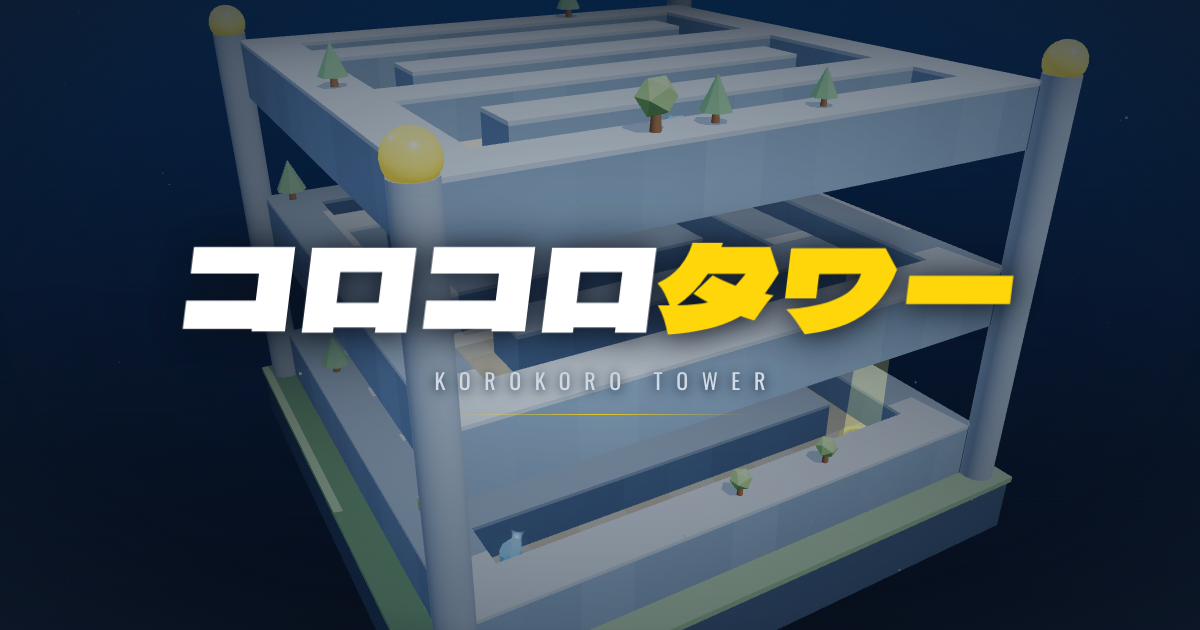
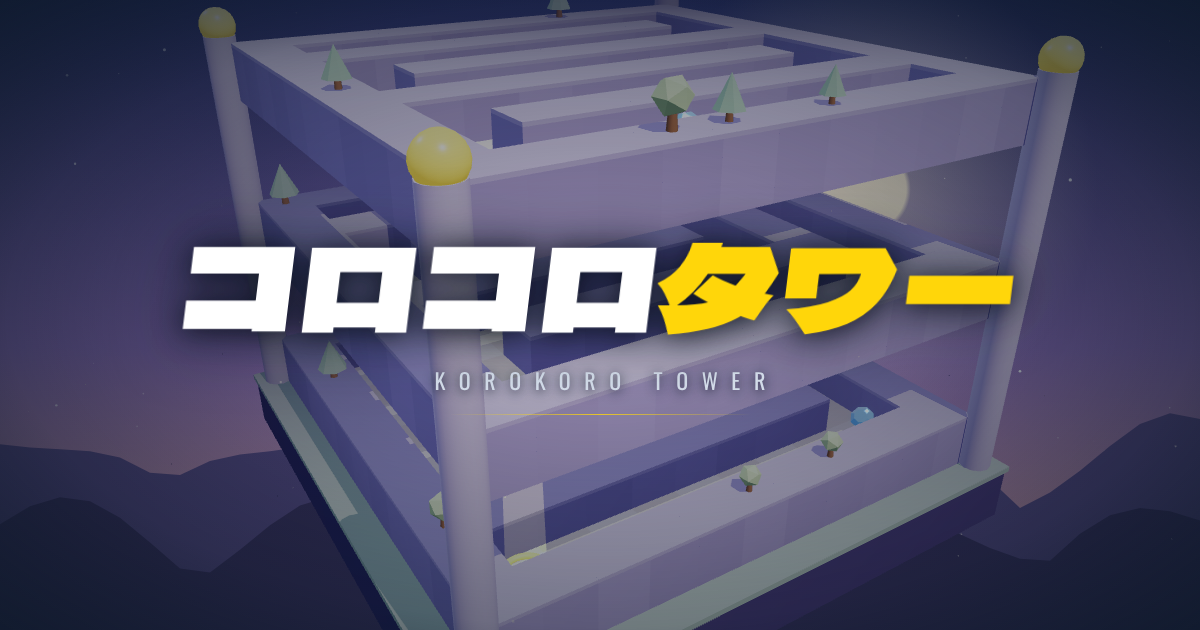
コロコロタワー：ステージごとの幻想的な背景とタワー配色、ポーズとクリスタル表示の左右入れ替え
Claude-Session: https://claude.ai/code/session_01XJ9ANyeUE1xpoHz6BcLguz

diff --git a/public/apps/korokoro-tower/index.html b/public/apps/korokoro-tower/index.html
@@ -18,6 +18,7 @@
 *{box-sizing:border-box;margin:0;padding:0;-webkit-tap-highlight-color:transparent}
 html,body{height:100%;background:var(--navy);color:#fff;overflow:hidden;font-family:"Zen Kaku Gothic New","Hiragino Sans","Noto Sans JP","PingFang SC","Apple SD Gothic Neo",system-ui,sans-serif;-webkit-user-select:none;user-select:none;overscroll-behavior:none;-webkit-text-size-adjust:100%}
 button{font-family:inherit;cursor:pointer;-webkit-appearance:none;appearance:none}
+#bg{position:fixed;inset:0;width:100%;height:100%;display:block;pointer-events:none}
 #gl{position:fixed;inset:0;width:100%;height:100%;display:block;touch-action:none}
 .hidden{display:none!important}
 .scr{position:fixed;inset:0;display:none;flex-direction:column;align-items:center;justify-content:center;padding:calc(env(safe-area-inset-top) + 16px) 18px calc(env(safe-area-inset-bottom) + 16px);touch-action:none}
@@ -65,18 +66,19 @@ button{font-family:inherit;cursor:pointer;-webkit-appearance:none;appearance:non
 /* hud */
 #hud{position:fixed;inset:0;pointer-events:none;touch-action:none}
 #hud .pe{pointer-events:auto}
-#btnPause{position:absolute;left:14px;top:calc(env(safe-area-inset-top) + 12px);width:44px;height:44px;border:1px solid var(--line);background:rgba(14,26,43,.55);border-radius:2px;display:flex;align-items:center;justify-content:center;gap:5px;backdrop-filter:blur(8px);-webkit-backdrop-filter:blur(8px)}
+#btnPause{position:absolute;right:14px;top:calc(env(safe-area-inset-top) + 12px);width:44px;height:44px;border:1px solid var(--line);background:rgba(14,26,43,.55);border-radius:2px;display:flex;align-items:center;justify-content:center;gap:5px;backdrop-filter:blur(8px);-webkit-backdrop-filter:blur(8px)}
 #btnPause i{display:block;width:4px;height:15px;background:#fff}
 .hudCenter{position:absolute;left:0;right:0;top:calc(env(safe-area-inset-top) + 10px);text-align:center;text-shadow:0 2px 12px rgba(14,26,43,.9)}
 .hudStage{font-family:Oswald;font-size:11px;letter-spacing:.42em;padding-left:.42em;color:var(--y)}
 #hudTimer{font-family:"Dela Gothic One";font-size:38px;line-height:1.15;letter-spacing:.02em;font-variant-numeric:tabular-nums}
 #hudTimer.warn{color:var(--y);animation:pulse .5s ease-in-out infinite alternate}
 @keyframes pulse{from{transform:scale(1)}to{transform:scale(1.08)}}
-.hudRight{position:absolute;right:14px;top:calc(env(safe-area-inset-top) + 14px);display:flex;flex-direction:column;align-items:flex-end;gap:8px}
+.hudRight{position:absolute;left:14px;top:calc(env(safe-area-inset-top) + 14px);display:flex;flex-direction:column;align-items:flex-start;gap:8px}
 .hudPill{display:flex;align-items:center;gap:7px;height:30px;padding:0 12px;background:rgba(14,26,43,.6);border:1px solid var(--line);border-radius:2px;font-family:Oswald;font-size:14px;letter-spacing:.1em;backdrop-filter:blur(8px);-webkit-backdrop-filter:blur(8px)}
 .hudPill svg{width:13px;height:13px}
 #floorBar{position:absolute;right:16px;top:calc(env(safe-area-inset-top) + 100px);display:flex;flex-direction:column;gap:5px;align-items:flex-end}
-.fl{display:flex;align-items:center;gap:8px;font-family:Oswald;font-size:12px;letter-spacing:.12em;color:rgba(214,223,236,.6);text-shadow:0 1px 6px #0e1a2b}
+.fl{display:flex;align-items:center;gap:8px;font-family:Oswald;font-size:12px;letter-spacing:.12em;color:rgba(230,236,245,.8);text-shadow:0 0 6px rgba(9,17,29,.9),0 1px 2px rgba(9,17,29,.9)}
+.fl i{box-shadow:0 0 6px rgba(9,17,29,.6)}
 .fl i{display:block;width:26px;height:4px;background:rgba(214,223,236,.25)}
 .fl.cur{color:var(--y)}.fl.cur i{background:var(--y);width:38px}
 .fl.past{color:rgba(214,223,236,.25)}.fl.past i{background:rgba(214,223,236,.12)}
@@ -162,6 +164,7 @@ input[type=range]::-moz-range-thumb{width:22px;height:22px;border-radius:50%;bac
 </style>
 </head>
 <body>
+<canvas id="bg"></canvas>
 <canvas id="gl"></canvas>
 <div id="loading">LOADING</div>
 
@@ -531,14 +534,14 @@ window.addEventListener('keyup',e=>{if(KEYMAP[e.code])input.keys[KEYMAP[e.code]]
 
 /* ---------------- three setup ---------------- */
 const FH=3.4,R=0.28,G=19;
-const renderer=new THREE.WebGLRenderer({canvas:gl,antialias:true,powerPreference:'high-performance'});
+const renderer=new THREE.WebGLRenderer({canvas:gl,antialias:true,alpha:true,powerPreference:'high-performance'});renderer.setClearColor(0x000000,0);
 renderer.setPixelRatio(Math.min(window.devicePixelRatio||1,3));
 renderer.outputEncoding=THREE.sRGBEncoding;renderer.toneMapping=THREE.ACESFilmicToneMapping;renderer.toneMappingExposure=0.95;
 renderer.shadowMap.enabled=true;renderer.shadowMap.type=THREE.PCFSoftShadowMap;
 const scene=new THREE.Scene();
 const camera=new THREE.PerspectiveCamera(38,1,0.1,200);
 // background gradient
-(function(){const c=document.createElement('canvas');c.width=4;c.height=256;const x=c.getContext('2d');const g=x.createLinearGradient(0,0,0,256);g.addColorStop(0,'#1d3b60');g.addColorStop(0.55,'#13263f');g.addColorStop(1,'#0a1422');x.fillStyle=g;x.fillRect(0,0,4,256);const tx=new THREE.CanvasTexture(c);tx.encoding=THREE.sRGBEncoding;scene.background=tx;})();
+(function(){const c=document.createElement('canvas');c.width=4;c.height=256;const x=c.getContext('2d');const g=x.createLinearGradient(0,0,0,256);g.addColorStop(0,'#1d3b60');g.addColorStop(0.55,'#13263f');g.addColorStop(1,'#0a1422');x.fillStyle=g;x.fillRect(0,0,4,256);const tx=new THREE.CanvasTexture(c);tx.encoding=THREE.sRGBEncoding;})();
 scene.fog=new THREE.Fog(new THREE.Color(0x0e1a2b).convertSRGBToLinear(),16,46);
 // env map
 (function(){const pm=new THREE.PMREMGenerator(renderer);const es=new THREE.Scene();const geo=new THREE.SphereGeometry(10,32,16);
@@ -605,6 +608,44 @@ ball.castShadow=true;root.add(ball);
 const ballGlow=new THREE.PointLight(0xffd60a,0,2.2);ball.add(ballGlow);
 
 /* palette */
+/* ---------------- themes ---------------- */
+const THEMES=[
+ {sky:['#2b2f6b','#8e6fb8','#f2b3a6'],glow:['#fff1d6',0.72,0.3,90],stars:60,sil:'mountains',silC:['#5a4b86','#3a2f5c'],fog:'#5d4f86',dust:0xffe6c8,wall:0x8d88c0,cap:0xc9c4ec,pillar:0xb9b2e0,sandA:0xf1e7d6,sandB:0xe4d7c2,base:0x3d3566,grass:0x8fb59a,leaf:[0x7fb38f,0xa6c98a],sun:0xffe2cc,hemi:0xe0d8ff},
+ {sky:['#0b2a31','#2c6b69','#a6d9c4'],glow:['#efffef',0.25,0.28,70],stars:30,sil:'pines',silC:['#2f6a64','#123a3c'],fog:'#2c5f5d',dust:0xd8ffe6,wall:0x5f9a8e,cap:0xaad8ca,pillar:0x9ccfc2,sandA:0xeee7d2,sandB:0xe0d6bb,base:0x1f4547,grass:0x7fb08a,leaf:[0x4f8f6a,0x79b07a],sun:0xfff4dc,hemi:0xd6fff0},
+ {sky:['#34184a','#c25a73','#ffc684'],glow:['#fff3b0',0.5,0.62,120],stars:0,sil:'city',silC:['#7a3a63','#2c1638'],fog:'#7c4363',dust:0xffe0a0,wall:0x9a7aa6,cap:0xdcc6e4,pillar:0xcab3d6,sandA:0xf5ead7,sandB:0xe9dbc3,base:0x3a2140,grass:0xa3a37a,leaf:[0x8a9a62,0xb0b070],sun:0xffd9a8,hemi:0xffe0ea},
+ {sky:['#040f22','#0c3150','#16606c'],glow:['#d8f4ff',0.78,0.18,50],stars:140,aurora:true,sil:'mountains',silC:['#1d4a63','#081d30'],fog:'#103a52',dust:0xc8f4ff,wall:0x8ab0cc,cap:0xdbeaf6,pillar:0xbcd6ea,sandA:0xeceae4,sandB:0xdedbd2,base:0x162c44,grass:0xbfd6e0,leaf:[0xd8eef6,0xb6d8e6],sun:0xe6f2ff,hemi:0xd8ecff},
+ {sky:['#ffd2e6','#c8b6ff','#9fd6ff'],glow:['#ffffff',0.3,0.24,110],stars:0,sil:'islands',silC:['#b49ce6','#8d77cc'],fog:'#b9a8e8',dust:0xffffff,wall:0x86c9b8,cap:0xd2f1e7,pillar:0xbfe8dc,sandA:0xfff4e6,sandB:0xf6e6d2,base:0x8a74c2,grass:0x9fe0b8,leaf:[0x8fd6a8,0xffb8d8],sun:0xfff6f0,hemi:0xfff0ff},
+ {sky:['#1d1430','#77486a','#e8a66a'],glow:['#ffe2a0',0.7,0.6,100],stars:20,sil:'dunes',silC:['#8a5468','#3a2234'],fog:'#6e4562',dust:0xffd6a0,wall:0xb39a7a,cap:0xe3d2b8,pillar:0xd2bf9f,sandA:0xf6ecd6,sandB:0xeadcbf,base:0x3e2a36,grass:0xc9b27a,leaf:[0x9aa060,0xc0b070],sun:0xffd8a8,hemi:0xffe6d0},
+ {sky:['#0c0d24','#28265a','#5a4a8a'],glow:['#ffd27a',0.5,0.3,80],stars:90,sil:'spires',silC:['#3f3a78','#1a1840'],fog:'#2e2b62',dust:0xffd98a,wall:0x6f6aa8,cap:0xbdb6e4,pillar:0xd8b867,sandA:0xefe8dc,sandB:0xe2d9c8,base:0x1e1c44,grass:0x7a8a9a,leaf:[0x6f9a8a,0x8fae8a],sun:0xffe2b0,hemi:0xe6e0ff},
+ {sky:['#05061a','#16124a','#45176a'],glow:['#ff5fd2',0.5,0.66,140],stars:70,sil:'grid',silC:['#2a1d6a','#0c0a2a'],fog:'#24174f',dust:0x9ff0ff,wall:0x56679a,cap:0x9aaee0,pillar:0x7f8fd0,sandA:0xe8eaf0,sandB:0xd9dce6,base:0x141038,grass:0x5d6aa0,leaf:[0x3fd8e8,0xc070ff],sun:0xe8e8ff,hemi:0xe0e8ff},
+ {sky:['#7fc2ff','#cbe7ff','#fff2dc'],glow:['#fffbe8',0.72,0.32,120],stars:0,sil:'clouds',silC:['#ffffff','#e6f1ff'],fog:'#cfe4f7',dust:0xffffff,wall:0x7ea3c6,cap:0xd8e7f5,pillar:0xbcd2e8,sandA:0xf4ecd9,sandB:0xe8dcc2,base:0x6f8fb3,grass:0x9fcf9a,leaf:[0x7fbf8a,0xa8d690],sun:0xfff8ea,hemi:0xeef6ff},
+ {sky:['#05030f','#1b0f3a','#3d1f6b'],glow:['#c9a8ff',0.25,0.22,60],stars:180,nebula:true,planet:true,sil:'none',silC:['#2a1a50','#120a28'],fog:'#22134a',dust:0xe8d8ff,wall:0x5c5193,cap:0xaba1e2,pillar:0xe0c070,sandA:0xf0e8f6,sandB:0xe2d7ee,base:0x1a1236,grass:0x6a5aa8,leaf:[0x9a8ae0,0x6fd0e0],sun:0xf0e6ff,hemi:0xe6dcff}
+];
+let theme=THEMES[0];
+const bgCv=document.getElementById('bg');
+function paintBg(){const th=theme,dpr=Math.min(1.5,window.devicePixelRatio||1),W=innerWidth,H=innerHeight;bgCv.width=Math.round(W*dpr);bgCv.height=Math.round(H*dpr);const x=bgCv.getContext('2d');x.setTransform(dpr,0,0,dpr,0,0);
+  let sd=(THEMES.indexOf(th)+1)*1234567;const r=()=>{sd=(sd*16807)%2147483647;return sd/2147483647;};
+  const g=x.createLinearGradient(0,0,0,H);g.addColorStop(0,th.sky[0]);g.addColorStop(0.55,th.sky[1]);g.addColorStop(1,th.sky[2]);x.fillStyle=g;x.fillRect(0,0,W,H);
+  if(th.nebula){for(const [cx,cy,rr,c] of [[0.25,0.3,0.55,'rgba(255,90,200,.22)'],[0.75,0.55,0.6,'rgba(80,140,255,.22)'],[0.5,0.8,0.5,'rgba(160,90,255,.2)']]){const ng=x.createRadialGradient(cx*W,cy*H,0,cx*W,cy*H,rr*Math.max(W,H));ng.addColorStop(0,c);ng.addColorStop(1,'rgba(0,0,0,0)');x.fillStyle=ng;x.fillRect(0,0,W,H);}}
+  for(let i=0;i<th.stars;i++){const sx=r()*W,sy=r()*H*0.75,sz=r()*1.4+0.3;x.globalAlpha=0.3+r()*0.7;x.fillStyle='#fff';x.beginPath();x.arc(sx,sy,sz,0,6.28);x.fill();}x.globalAlpha=1;
+  if(th.aurora){for(let k=0;k<3;k++){x.save();x.globalCompositeOperation='lighter';const yb=H*(0.18+k*0.09);const ag=x.createLinearGradient(0,yb-60,0,yb+80);ag.addColorStop(0,'rgba(80,255,180,0)');ag.addColorStop(0.5,k===1?'rgba(120,200,255,.22)':'rgba(80,255,180,.25)');ag.addColorStop(1,'rgba(80,255,180,0)');x.fillStyle=ag;x.beginPath();x.moveTo(0,yb);for(let px=0;px<=W;px+=20)x.lineTo(px,yb+Math.sin(px/90+k*2)*28+Math.sin(px/37+k)*10);x.lineTo(W,yb+90);x.lineTo(0,yb+90);x.closePath();x.fill();x.restore();}}
+  const [gc,gx,gy,gr]=th.glow;{const og=x.createRadialGradient(gx*W,gy*H,0,gx*W,gy*H,gr*2.6);og.addColorStop(0,gc);og.addColorStop(0.18,gc);og.addColorStop(0.2,hexA(gc,.45));og.addColorStop(1,hexA(gc,0));x.fillStyle=og;x.beginPath();x.arc(gx*W,gy*H,gr*2.6,0,6.28);x.fill();}
+  if(th.planet){x.save();const px=W*0.78,py=H*0.16,pr=Math.min(W,H)*0.11;const pg=x.createRadialGradient(px-pr*0.4,py-pr*0.4,pr*0.1,px,py,pr);pg.addColorStop(0,'#ffd1f0');pg.addColorStop(1,'#6a3fa8');x.fillStyle=pg;x.beginPath();x.arc(px,py,pr,0,6.28);x.fill();x.strokeStyle='rgba(255,220,250,.55)';x.lineWidth=3;x.beginPath();x.ellipse(px,py,pr*1.7,pr*0.42,-0.35,0,6.28);x.stroke();x.restore();}
+  const sil=th.sil;const layer=(col,base,amp,seed,kind)=>{x.fillStyle=col;x.beginPath();x.moveTo(0,H);
+    if(kind==='mountains'||kind==='dunes'){let y=base;for(let px=0;px<=W+30;px+=30){y=base-Math.abs(Math.sin(px/(kind==='dunes'?160:90)+seed))*amp-Math.sin(px/41+seed*3)*amp*(kind==='dunes'?0.1:0.25);x.lineTo(px,y);}}
+    else if(kind==='pines'){for(let px=-20;px<=W+20;px+=14+r()*10){const hh=amp*(0.5+r()*0.8);x.lineTo(px,base);x.lineTo(px+7,base-hh);x.lineTo(px+14,base);}}
+    else if(kind==='city'||kind==='spires'){for(let px=0;px<=W;){const bw=kind==='city'?18+r()*30:12+r()*16;const hh=amp*(0.3+r()*0.9);x.lineTo(px,base-hh*(kind==='spires'?0.6:1));if(kind==='spires'){x.lineTo(px+bw/2,base-hh*1.4);}x.lineTo(px+bw,base-hh*(kind==='spires'?0.6:1));x.lineTo(px+bw,base);px+=bw+2;x.lineTo(px,base);}}
+    else if(kind==='clouds'){for(let px=-40;px<=W+40;px+=40){x.lineTo(px,base-amp*(0.4+0.6*Math.abs(Math.sin(px/70+seed))));}}
+    else{x.lineTo(0,base);}
+    x.lineTo(W,H);x.closePath();x.fill();};
+  if(sil==='islands'){for(let i=0;i<5;i++){const ix=r()*W,iy=H*(0.55+r()*0.3),iw=40+r()*80;x.fillStyle=i%2?th.silC[0]:th.silC[1];x.globalAlpha=0.7;x.beginPath();x.ellipse(ix,iy,iw,iw*0.18,0,0,6.28);x.fill();x.beginPath();x.moveTo(ix-iw*0.8,iy);x.lineTo(ix,iy+iw*0.6);x.lineTo(ix+iw*0.8,iy);x.fill();}x.globalAlpha=1;}
+  else if(sil==='grid'){x.save();x.strokeStyle='rgba(80,230,255,.35)';x.lineWidth=1;const hy=H*0.72;for(let i=0;i<14;i++){const yy=hy+Math.pow(i/13,2)*(H-hy);x.globalAlpha=0.25+i/20;x.beginPath();x.moveTo(0,yy);x.lineTo(W,yy);x.stroke();}for(let i=-12;i<=12;i++){x.beginPath();x.moveTo(W/2+i*14,hy);x.lineTo(W/2+i*W*0.18,H);x.stroke();}x.restore();
+    const hg=x.createLinearGradient(0,hy-40,0,hy+6);hg.addColorStop(0,'rgba(255,95,210,0)');hg.addColorStop(1,'rgba(255,95,210,.45)');x.fillStyle=hg;x.fillRect(0,hy-40,W,46);}
+  else if(sil!=='none'){layer(th.silC[0],H*0.8,H*0.12,1.3,sil);layer(th.silC[1],H*0.9,H*0.09,4.1,sil);}
+  const vg=x.createRadialGradient(W/2,H*0.5,Math.min(W,H)*0.3,W/2,H*0.5,Math.max(W,H)*0.75);vg.addColorStop(0,'rgba(5,10,20,0)');vg.addColorStop(1,'rgba(5,10,20,.45)');x.fillStyle=vg;x.fillRect(0,0,W,H);}
+function hexA(h,a){const n=parseInt(h.slice(1),16);return `rgba(${n>>16&255},${n>>8&255},${n&255},${a})`;}
+function applyTheme(si){theme=THEMES[si%THEMES.length];Object.assign(PAL,{wall:theme.wall,cap:new THREE.Color(theme.wall).lerp(new THREE.Color(theme.cap),0.3).getHex(),sandA:theme.sandA,sandB:theme.sandB});
+  scene.fog.color.set(theme.fog).convertSRGBToLinear();dust.material.color.set(theme.dust).convertSRGBToLinear();sun.color.set(theme.sun).convertSRGBToLinear();hemi.color.set(theme.hemi).convertSRGBToLinear();paintBg();}
 const PAL={sandA:0xeadbb8,sandB:0xdcc9a1,start:0xf6e7a8,ice:0x6fcff2,iceB:0x5cc3ec,mud:0x7b5b3b,mudB:0x6e5034,conv:0x34445c,spike:0x5b3442,tp:0x2a4a73,goal:0xfdf6e3,gate:0xe7d9bb,wall:0x6c8db0,cap:0x9fbad6};
 
 /* ---------------- level build ---------------- */
@@ -616,6 +657,7 @@ function clearLevel(){if(!level)return;for(const fo of level.floors){root.remove
 function rng(seed){let s=seed>>>0||1;return()=>{s^=s<<13;s^=s>>>17;s^=s<<5;return((s>>>0)%10000)/10000;};}
 function buildLevel(si){
   clearLevel();const st=STAGES[si];const N=st.floors.length,H=st.floors[0].length,W=st.floors[0][0].length;
+  applyTheme(si);
   level={si,st,N,W,H,floors:[],extra:[],gemTotal:0};const ox=-W/2,oz=-H/2;const rnd=rng(si*977+13);
   for(let f=0;f<N;f++){
     const grid=st.floors[f].map(r=>r.split(''));const y0=-f*FH;
@@ -667,14 +709,14 @@ function buildLevel(si){
     fo.group.add(tiles,walls,caps);
   }
   // pillars & base
-  const top=0.9,bot=-(N-1)*FH-1.6;const pm=lin(new THREE.MeshStandardMaterial({color:0x8aa3bf,roughness:0.6,metalness:0.1}));
+  const top=0.9,bot=-(N-1)*FH-1.6;const pm=lin(new THREE.MeshStandardMaterial({color:theme.pillar,roughness:0.6,metalness:0.1}));
   for(const [sx,sz] of [[-1,-1],[1,-1],[-1,1],[1,1]]){const p=new THREE.Mesh(GEO.pillar,pm);p.scale.y=top-bot;p.position.set(sx*(W/2+0.15),(top+bot)/2,sz*(H/2+0.15));p.castShadow=true;root.add(p);level.extra.push(p);
     const cap=new THREE.Mesh(new THREE.SphereGeometry(0.36,16,10),lin(new THREE.MeshStandardMaterial({color:0xffd60a,emissive:0xffb800,emissiveIntensity:0.6,roughness:0.3})));cap.position.set(p.position.x,top+0.2,p.position.z);root.add(cap);level.extra.push(cap);}
-  const base=new THREE.Mesh(new THREE.BoxGeometry(W+1.2,1.2,H+1.2),lin(new THREE.MeshStandardMaterial({color:0x30465f,roughness:0.9})));base.position.y=-(N-1)*FH-1.0;base.receiveShadow=true;root.add(base);level.extra.push(base);
-  const grass=new THREE.Mesh(new THREE.BoxGeometry(W+1.3,0.12,H+1.3),lin(new THREE.MeshStandardMaterial({color:0x6f9a6a,roughness:0.95})));grass.position.y=-(N-1)*FH-0.42;grass.receiveShadow=true;root.add(grass);level.extra.push(grass);
+  const base=new THREE.Mesh(new THREE.BoxGeometry(W+1.2,1.2,H+1.2),lin(new THREE.MeshStandardMaterial({color:theme.base,roughness:0.9})));base.position.y=-(N-1)*FH-1.0;base.receiveShadow=true;root.add(base);level.extra.push(base);
+  const grass=new THREE.Mesh(new THREE.BoxGeometry(W+1.3,0.12,H+1.3),lin(new THREE.MeshStandardMaterial({color:theme.grass,roughness:0.95})));grass.position.y=-(N-1)*FH-0.42;grass.receiveShadow=true;root.add(grass);level.extra.push(grass);
 }
 function addTree(fo,x,y,z,rnd){const g=new THREE.Group();const tr=new THREE.Mesh(GEO.trunk,mkMat(fo,{color:0x7a5536,roughness:0.9}));tr.position.y=0.12;
-  const kind=rnd()<0.5;const lf=new THREE.Mesh(kind?GEO.leaf:GEO.leaf2,mkMat(fo,{color:kind?0x5f9c6b:0x86b86a,roughness:0.85,flatShading:true}));lf.position.y=kind?0.45:0.38;tr.castShadow=lf.castShadow=true;g.add(tr,lf);g.position.set(x,y,z);g.rotation.y=rnd()*6;const s=0.8+rnd()*0.5;g.scale.set(s,s,s);fo.group.add(g);}
+  const kind=rnd()<0.5;const lf=new THREE.Mesh(kind?GEO.leaf:GEO.leaf2,mkMat(fo,{color:kind?theme.leaf[0]:theme.leaf[1],roughness:0.85,flatShading:true}));lf.position.y=kind?0.45:0.38;tr.castShadow=lf.castShadow=true;g.add(tr,lf);g.position.set(x,y,z);g.rotation.y=rnd()*6;const s=0.8+rnd()*0.5;g.scale.set(s,s,s);fo.group.add(g);}
 
 /* ---------------- game state ---------------- */
 let state='loading';
@@ -1051,7 +1093,7 @@ function botTick(){const g=game;if(state!=='play'||g.mode!=='roll'||!level){BOT.
   input.drag={id:-9,dx:clamp((wx-g.vx)*0.2,-TILT_MAX,TILT_MAX),dy:clamp((wz-g.vz)*0.2,-TILT_MAX,TILT_MAX)};}
 
 /* ---------------- resize & loop ---------------- */
-function resize(){const w=window.innerWidth,h=window.innerHeight;renderer.setSize(w,h,false);camera.aspect=w/h;camera.updateProjectionMatrix();}
+function resize(){if(typeof paintBg==='function')paintBg();const w=window.innerWidth,h=window.innerHeight;renderer.setSize(w,h,false);camera.aspect=w/h;camera.updateProjectionMatrix();}
 window.addEventListener('resize',resize);resize();
 let last=performance.now();
 let fpsAcc=0,fpsN=0;
